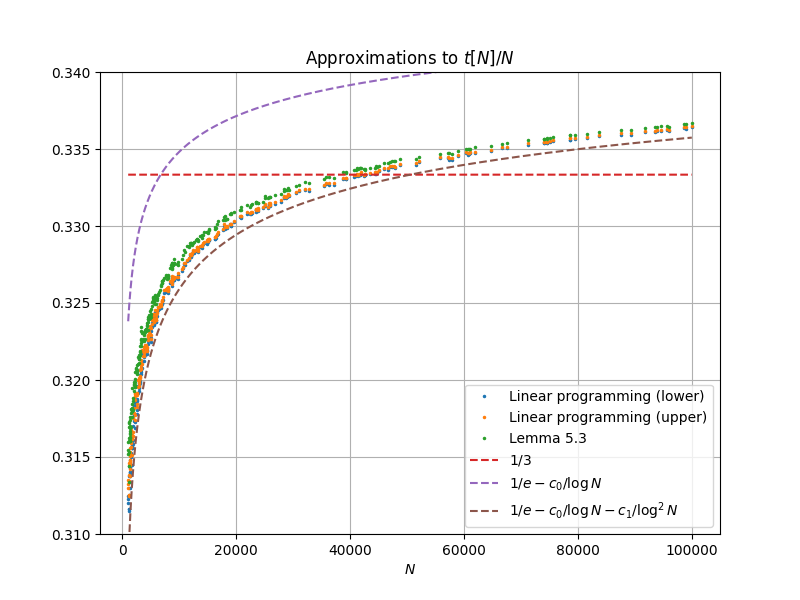
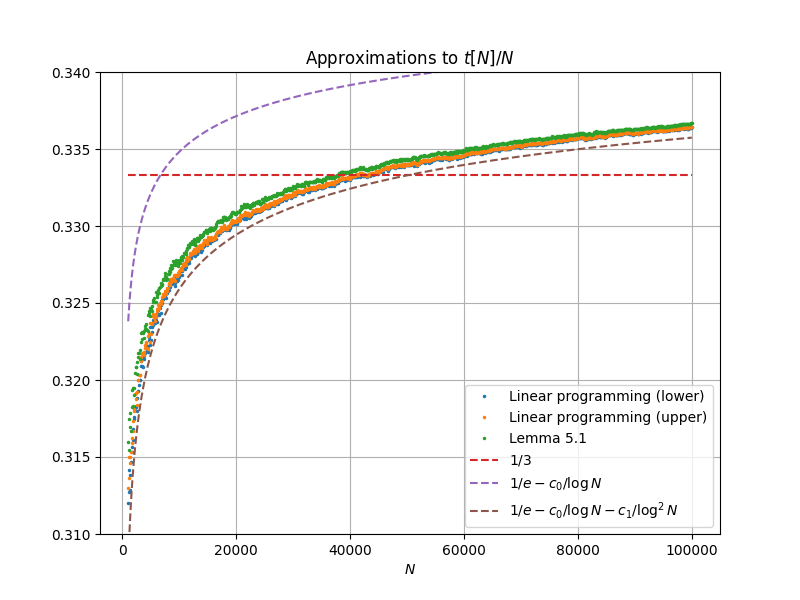
update the N in [10^3,10^5] plot

Changed region(s): [[0.1562, 0.18, 0.875, 0.84]]

diff --git a/src/python/sampled plot.py b/src/python/sampled plot.py
@@ -2,27 +2,19 @@ import numpy as np
 import matplotlib.pyplot as plt
 import math
 
+base = []
+t_lower = []
+t_upper = []
 
-# Plot some LP upper and lower bounds
+with open('../../data/t_large_n_bounds_2.txt', 'r') as f:
+    next(f)  # Skip the header line
+    for line in f:
+        parts = line.split()
+        if len(parts) == 3:
+            base.append(int(parts[0]))
+            t_lower.append(int(parts[1]))
+            t_upper.append(int(parts[2]))
 
-Samples = [1000, 1008, 1012, 1056, 1069, 1075, 1091, 1139, 1157, 1163, 1199, 1244, 1254, 1294, 1310, 1312, 1313, 1350, 1360, 1382, 1386, 1387, 1390, 1468, 1508, 1532, 1609, 1625, 1632, 1679, 1692, 1707, 1749, 1757, 1789, 1838, 1858, 1957, 2058, 2061, 2071, 2152, 2156, 2206, 2223, 2228, 2237, 2307, 2404, 2462, 2519, 2536, 2548, 2567, 2672, 2707, 2831, 2869, 2903, 2905, 2932, 2961, 3011, 3023, 3085, 3128, 3167, 3193, 3237, 3242, 3277, 3293, 3370, 3439, 3491, 3530, 3701, 3739, 3790, 3862, 3905, 3909, 3939, 4034, 4211, 4213, 4213, 4234, 4269, 4368, 4461, 4472, 4517, 4522, 4550, 4704, 4738, 4765, 4811, 4875, 4932, 4955, 4959, 5160, 5261, 5278, 5315, 5323, 5338, 5468, 5468, 5507, 5517, 5656, 5766, 5777, 5865, 5906, 5912, 5925, 5943, 6125, 6145, 6202, 6226, 6368, 6512, 6700, 6702, 6930, 6932, 6938, 6945, 7066, 7360, 7565, 7570, 7900, 7917, 7921, 7956, 8024, 8065, 8348, 8539, 8614, 8617, 8677, 8684, 8697, 8738, 8785, 8990, 8993, 9047, 9081, 9504, 9695, 9837, 10456, 10609, 10888, 10932, 11354, 11627, 11674, 11913, 12060, 12091, 12092, 12128, 12362, 12508, 12965, 13052, 13061, 13199, 13245, 13659, 13950, 14049, 14148, 14324, 14915, 14921, 14947, 14966, 15157, 15271, 16241, 16319, 16379, 16541, 16816, 17600, 17781, 17971, 18087, 18435, 18442, 18970, 18996, 19053, 19656, 20712, 20749, 20834, 21848, 22439, 22542, 22800, 23403, 23454, 23528, 23728, 23827, 24607, 25031, 25085, 25479, 25795, 25933, 25965, 26845, 27908, 28343, 28438, 28749, 28954, 29053, 29203, 30394, 31009, 32034, 32729, 35377, 35814, 36353, 37119, 38766, 39176, 39346, 40683, 40996, 41137, 41417, 41691, 41737, 41826, 42475, 42521, 42563, 43523, 44327, 44558, 44777, 45104, 45970, 46699, 47020, 47354, 47756, 47843, 48690, 51636, 52114, 55822, 57179, 57327, 57927, 58886, 60320, 60714, 60789, 61082, 61946, 64696, 66608, 67613, 71256, 73949, 73994, 74533, 74568, 75102, 75687, 78585, 78677, 79435, 81645, 83781, 87547, 89261, 91800, 93614, 93905, 94640, 95716, 95985, 98550, 98977, 100000]
-
-Bounds = [[312, 313], [315, 316], [316, 317], [330, 331], [333, 334], [335, 336], [340, 341], [356, 357], [363, 364], [364, 365], [377, 378], [391, 392], [393, 394], [405, 406], [411, 412], [412, 413], [412, 413], [425, 426], [427, 428], [434, 435], [436, 437], [436, 437], [437, 438], [464, 465], [475, 476], [483, 484], [506, 507], [513, 514], [515, 516], [530, 531], [534, 535], [539, 540], [552, 553], [555, 556], [565, 566], [581, 582], [589, 590], [621, 622], [655, 656], [656, 657], [658, 659], [682, 683], [684, 685], [703, 704], [708, 709], [710, 711], [712, 713], [735, 736], [766, 767], [783, 784], [803, 804], [806, 807], [812, 813], [818, 819], [854, 855], [864, 865], [905, 906], [916, 917], [928, 929], [928, 929], [937, 938], [947, 948], [963, 964], [967, 968], [987, 988], [1002, 1003], [1015, 1016], [1023, 1024], [1038, 1039], [1040, 1041], [1051, 1052], [1057, 1058], [1081, 1082], [1106, 1107], [1123, 1124], [1134, 1135], [1189, 1190], [1202, 1203], [1220, 1221], [1243, 1244], [1257, 1258], [1258, 1259], [1267, 1268], [1299, 1300], [1356, 1357], [1356, 1357], [1356, 1357], [1363, 1364], [1374, 1375], [1405, 1406], [1438, 1439], [1443, 1444], [1457, 1458], [1459, 1460], [1468, 1469], [1518, 1521], [1530, 1531], [1538, 1539], [1553, 1554], [1576, 1577], [1594, 1595], [1599, 1600], [1599, 1600], [1669, 1670], [1703, 1704], [1710, 1711], [1721, 1722], [1725, 1726], [1730, 1731], [1770, 1771], [1770, 1771], [1782, 1783], [1788, 1789], [1833, 1834], [1867, 1868], [1874, 1875], [1901, 1902], [1912, 1913], [1914, 1915], [1919, 1920], [1926, 1927], [1987, 1988], [1992, 1993], [2013, 2014], [2021, 2022], [2067, 2068], [2115, 2116], [2176, 2177], [2176, 2177], [2252, 2253], [2253, 2254], [2255, 2256], [2257, 2258], [2298, 2299], [2397, 2398], [2464, 2465], [2466, 2467], [2574, 2575], [2579, 2580], [2581, 2582], [2591, 2592], [2615, 2616], [2628, 2629], [2724, 2725], [2786, 2787], [2812, 2813], [2813, 2814], [2832, 2833], [2832, 2833], [2838, 2839], [2854, 2855], [2868, 2869], [2936, 2937], [2937, 2938], [2954, 2955], [2965, 2966], [3104, 3105], [3166, 3167], [3215, 3216], [3420, 3421], [3472, 3473], [3566, 3567], [3580, 3581], [3721, 3722], [3812, 3813], [3827, 3828], [3909, 3910], [3956, 3957], [3966, 3967], [3967, 3968], [3980, 3981], [4059, 4060], [4106, 4107], [4257, 4258], [4288, 4289], [4291, 4292], [4333, 4334], [4350, 4351], [4489, 4490], [4584, 4585], [4618, 4619], [4652, 4653], [4711, 4712], [4905, 4907], [4909, 4910], [4917, 4918], [4925, 4926], [4988, 4989], [5026, 5027], [5346, 5348], [5372, 5374], [5392, 5394], [5449, 5450], [5541, 5543], [5804, 5805], [5868, 5870], [5928, 5930], [5965, 5967], [6082, 6083], [6083, 6085], [6262, 6263], [6269, 6271], [6288, 6290], [6492, 6493], [6847, 6848], [6858, 6860], [6888, 6889], [7227, 7229], [7422, 7424], [7457, 7459], [7543, 7545], [7747, 7749], [7764, 7766], [7786, 7788], [7856, 7858], [7886, 7888], [8149, 8151], [8292, 8294], [8312, 8314], [8438, 8440], [8549, 8551], [8591, 8593], [8605, 8607], [8898, 8901], [9254, 9256], [9407, 9409], [9436, 9439], [9539, 9542], [9610, 9612], [9645, 9647], [9693, 9695], [10095, 10098], [10303, 10306], [10647, 10649], [10876, 10879], [11766, 11769], [11916, 11919], [12094, 12097], [12349, 12352], [12910, 12913], [13047, 13050], [13103, 13106], [13556, 13559], [13662, 13665], [13712, 13715], [13803, 13806], [13897, 13900], [13912, 13915], [13944, 13948], [14155, 14158], [14173, 14176], [14187, 14190], [14509, 14512], [14779, 14783], [14856, 14860], [14930, 14934], [15045, 15049], [15339, 15343], [15582, 15586], [15697, 15700], [15808, 15811], [15942, 15945], [15968, 15972], [16259, 16263], [17246, 17250], [17414, 17418], [18666, 18671], [19120, 19125], [19165, 19170], [19366, 19371], [19700, 19705], [20190, 20195], [20317, 20322], [20343, 20348], [20445, 20450], [20734, 20739], [21665, 21670], [22316, 22322], [22653, 22659], [23891, 23897], [24800, 24806], [24816, 24822], [24996, 25002], [25009, 25015], [25193, 25199], [25394, 25400], [26374, 26380], [26405, 26411], [26660, 26666], [27407, 27414], [28137, 28144], [29410, 29417], [29986, 29993], [30854, 30861], [31462, 31469], [31568, 31576], [31815, 31823], [32184, 32192], [32267, 32275], [33146, 33154], [33289, 33297], [33641, 33649]]
-
-def best_lower(n):
-    best = 0
-    for i in range(len(Samples)):
-        if Samples[i] <= n:
-            best = Bounds[i][0]
-        else:
-            return best
-    return best
-
-def best_upper(n):
-    for i in range(len(Samples)):
-        if Samples[i] >= n:
-            return Bounds[i][1]
-    return 0
         
 def is_prime(n):
     """Return True if n is a prime number, else False."""
@@ -44,35 +36,39 @@ def logfac(N):
 
 def criterion( N, t ):
     sum = 0
+    threshold = logfac(N) - N * math.log(t) + 0.0001 
+    tfail = t/(math.floor(math.sqrt(t)))
     for p in range(1, N + 1):
-        if is_prime(p) and p > t/(math.floor(math.sqrt(t))):
-            sum += math.floor(N/p) * math.log((p/t)*math.ceil(t/p))
-    if sum > logfac(N) - N * math.log(t) + 0.0001:
-        return True
-
+        if p > tfail:
+            if is_prime(p):
+                sum += math.floor(N/p) * math.log((p/t)*math.ceil(t/p))
+                if sum > threshold:
+                    return True
+    return False
 
 def best_t( N, init ):
-    print(f"Testing {N}")
-    for t in range(init, N+1):
-        if criterion(N,t):
-            return t-1
-    return N
+    t = init
+    while not criterion(N, t):
+        t += 5
+    while criterion(N,t):
+        t -= 1
+    print(f"Testing {N}: needed to increment by {t-init}") 
+    return t
 
 
 def plot():
-    base = [10*n for n in range(100,10001)]
-    lb = [Bounds[i][0]/Samples[i] for i in range(len(Samples))]
-    ub = [Bounds[i][1]/Samples[i] for i in range(len(Samples))]
-    lin = [best_t(Samples[i], Bounds[i][0])/Samples[i] for i in range(len(Samples))]
+    lb = [t_lower[i]/base[i] for i in range(len(base))]
+    ub = [t_upper[i]/base[i] for i in range(len(base))]
+    lin = [best_t(base[i], t_lower[i])/base[i] for i in range(len(base))]
     third = [1/3 for _ in base]
-    c0 = 0.3044
+    c0 = 0.3044190
     asym = [1/math.e - c0 / math.log(N) for N in base]
-    c1 = 0.7555
+    c1 = 0.75554808
     asym2 = [1/math.e - c0 / math.log(N) - c1 / math.log(N)**2 for N in base]
     plt.figure(figsize=[8, 6])
-    plt.plot(Samples, lb, label='Linear programming (lower)', marker='.',linestyle='None', markersize=3 )
-    plt.plot(Samples, ub, label='Linear programming (upper)', marker='.', linestyle='None', markersize=3) 
-    plt.plot(Samples, lin, label='Lemma 5.3', marker='.', linestyle='None', markersize=3) 
+    plt.plot(base, lb, label='Linear programming (lower)', marker='.',linestyle='None', markersize=3 )
+    plt.plot(base, ub, label='Linear programming (upper)', marker='.', linestyle='None', markersize=3) 
+    plt.plot(base, lin, label='Lemma 5.1', marker='.', linestyle='None', markersize=3) 
     plt.plot(base, third, label='$1/3$', linestyle='--')
     plt.plot(base, asym, label='$1/e - c_0/\\log N$', linestyle='--')
     plt.plot(base, asym2, label='$1/e - c_0/\\log N - c_1/ \\log^2 N$', linestyle='--')

diff --git a/README.md b/README.md
@@ -1,8 +1,8 @@
 # Verifying the Guy-Selfridge conjecture
 
 For a natural number $N$, let $t(N)$ be the largest number such that $N!$ can be factored into $N$ integer factors, each of which is at least $t(N)$.  It is known that $\frac{1}{e} - \frac{c_0+O(\log^{-c} N)}{\log N} \leq \frac{t(N)}{N} \leq \frac{1}{e} - \frac{c_0}{\log N} -\frac{c_1+o(1)}{\log^2 N}$,
-where $c_0 := \frac{1}{e} \int_0^1 \left \lfloor \frac{1}{x} \right\rfloor \log \left( ex \left \lceil \frac{1}{ex} \right\rceil \right)\ dx = 0.3044\dots,$
-answering a question of [Erdős and Graham](https://www.erdosproblems.com/391).  Here $c_1$ is the explicit constant $c_1 := c'_1 + c_0 c''_1 - ec_0^2/2 \approx 0.7552$, where $c'_1 := \frac{1}{e} \int_0^1 \left \lfloor \frac{1}{x} \right\rfloor \log \left( ex \left \lceil \frac{1}{ex} \right\rceil \right) \log \frac{1}{x}\ dx \approx 0.370$ and $c_1^{\prime\prime} :=  \sum_{k=1}^\infty \frac{1}{k}  \log\left( \frac{e}{k} \left\lceil \frac{k}{e} \right\rceil \right) \approx 1.680$. 
+where $c_0 := \frac{1}{e} \int_0^1 \left \lfloor \frac{1}{x} \right\rfloor \log \left( ex \left \lceil \frac{1}{ex} \right\rceil \right)\ dx = 0.304419010\dots,$
+answering a question of [Erdős and Graham](https://www.erdosproblems.com/391).  Here $c_1$ is the explicit constant $c_1 := c'_1 + c_0 c''_1 - ec_0^2/2 = 0.75554808\dots$, where $c_1^\prime := \frac{1}{e} \int_0^1 \left \lfloor \frac{1}{x} \right\rfloor \log \left( ex \left \lceil \frac{1}{ex} \right\rceil \right) \log \frac{1}{x}\ dx = 0.3702051\dots$ and $c_1^{\prime\prime} :=  \sum_{k=1}^\infty \frac{1}{k}  \log\left( \frac{e}{k} \left\lceil \frac{k}{e} \right\rceil \right) = 1.679587996\dots$. 
 
 Here is a graph of the integral defining $c_0$:
 
